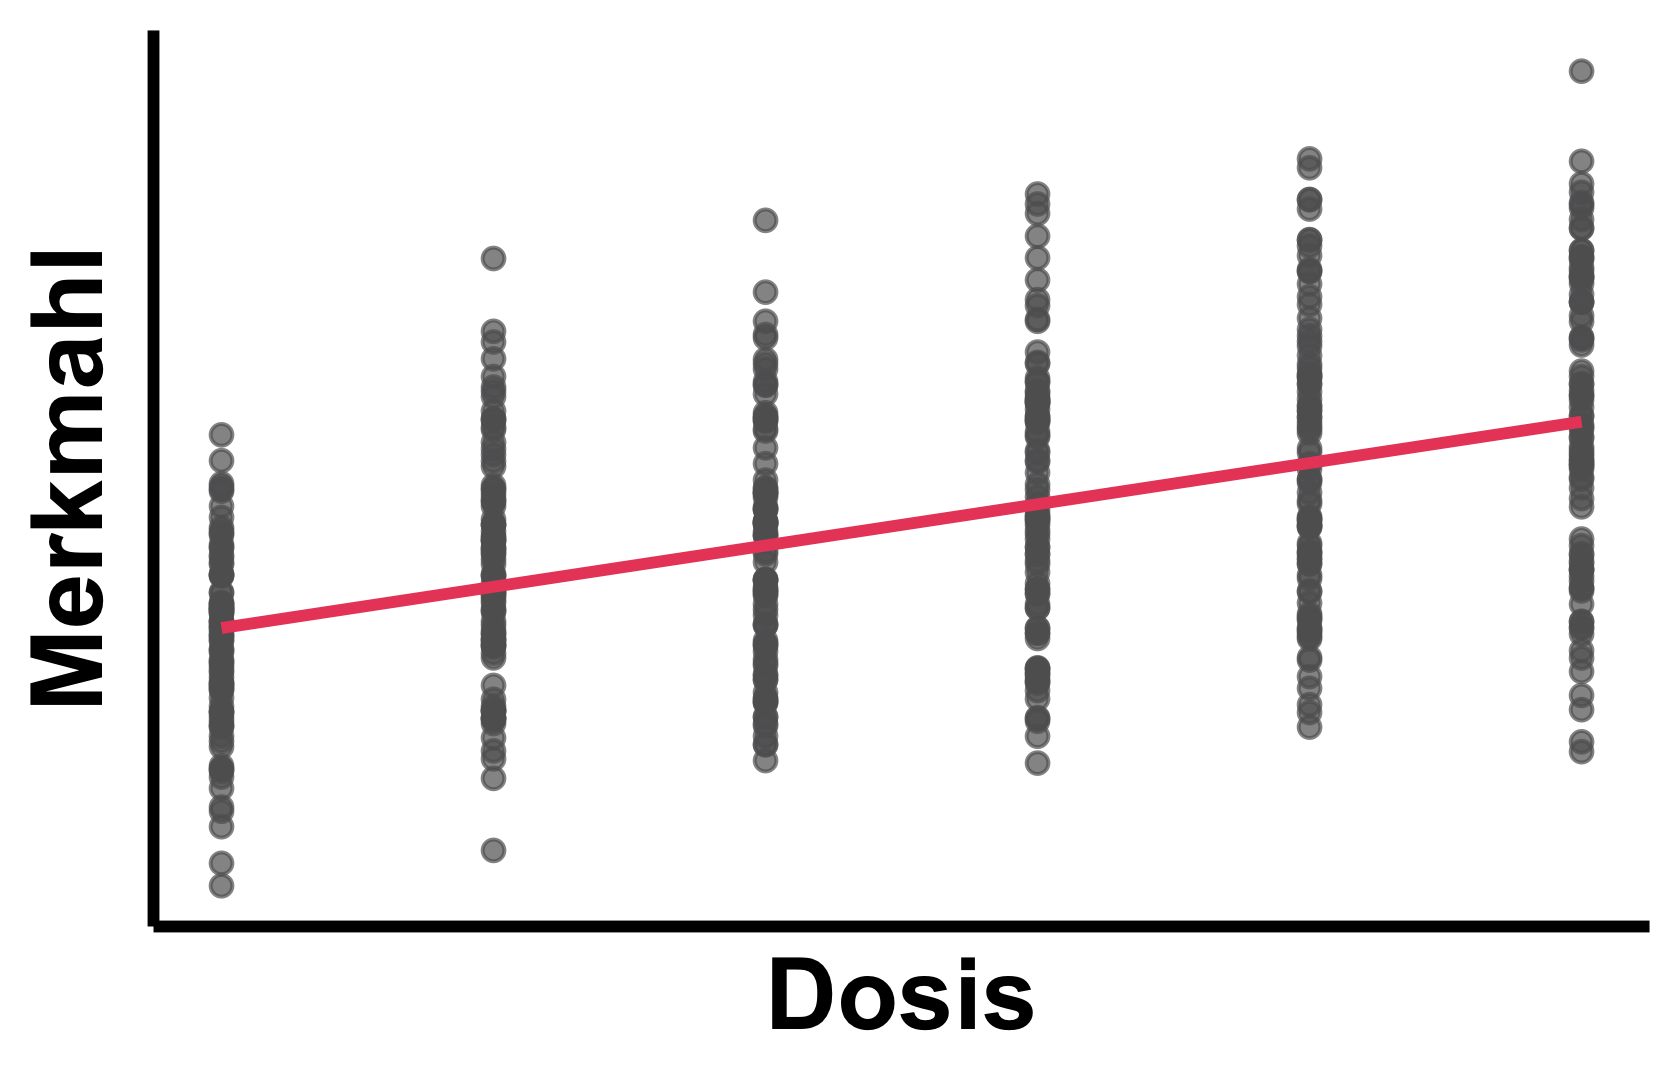
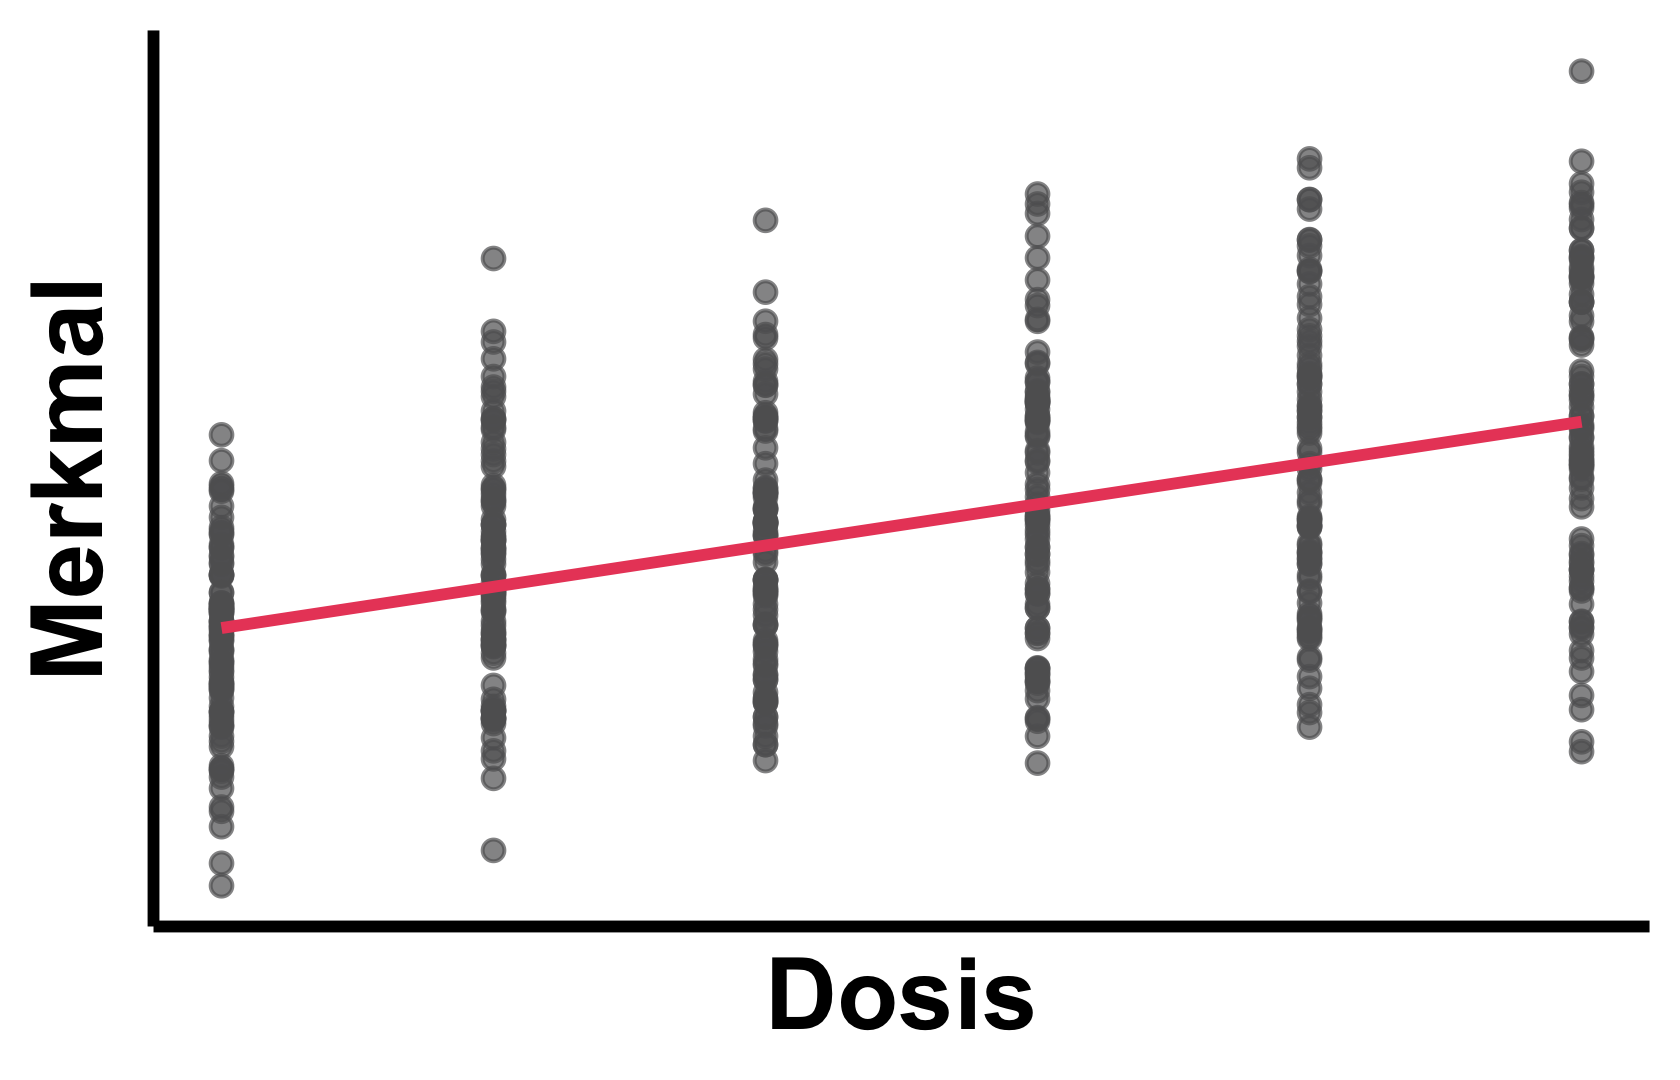
...

Changed region(s): [[0.0, 0.2139, 0.0619, 0.6722]]

diff --git a/_sessions/GemischteModelle/GemischteModelle.html b/_sessions/GemischteModelle/GemischteModelle.html
@@ -72,7 +72,7 @@ layout: true
 # [IID](https://de.wikipedia.org/wiki/Unabh%C3%A4ngig_und_identisch_verteilte_Zufallsvariablen) Annahme
 
 .pull-left45[
-Bisherige Regressionsmodelle machen die Annahme, dass die Datenpunkte unabhängig und gleichverteilt sind (independent and identically distributed, &lt;high&gt;iid&lt;/high&gt;).
+Bisherige Regressionsmodelle machen die Annahme, dass die Residuen unabhängig und gleichverteilt sind (independent and identically distributed, &lt;high&gt;iid&lt;/high&gt;).
 
 &lt;ul&gt;
   &lt;li class="m1"&gt;&lt;span&gt;&lt;high&gt;Unabhängig&lt;/high&gt;: Das Auftreten eines Wertes hat keinen Einfluss auf das Auftreten anderer Werte.&lt;/span&gt;&lt;/li&gt;
@@ -147,7 +147,7 @@ So würden wir eine Regression über alle Zentren rechnen (aber ist dies eine gu
 
 
 ```r
-mod &lt;- lm(formula = Merkmahl ~ Dosis,
+mod &lt;- lm(formula = Merkmal ~ Dosis,
           data = DATEN_ZENTREN)
 ```
 
@@ -178,13 +178,13 @@ So würden wir eine Regression pro Zentrum rechnen (aber ist dies eine gute Idee
 
 
 ```r
-mod_s1 &lt;- lm(formula = Merkmahl ~ Dosis,
+mod_s1 &lt;- lm(formula = Merkmal ~ Dosis,
              data = DATEN_ZENTRUM1)
 
-mod_s2 &lt;- lm(formula = Merkmahl ~ Dosis,
+mod_s2 &lt;- lm(formula = Merkmal ~ Dosis,
              data = DATEN_ZENTRUM2)
 
-mod_s3 &lt;- lm(formula = Merkmahl ~ Dosis,
+mod_s3 &lt;- lm(formula = Merkmal ~ Dosis,
              data = DATEN_ZENTRUM3)
 ```
 
@@ -259,14 +259,14 @@ LMM &lt;- lmer(formula = y ~ FE1 + FE2 +
 .pull-left5[
 
 &lt;br&gt;
-Feste Effekte repräsentieren dieselben Gruppeneffekte wie bei den bisherigen Regressionsmodellen; zum Beispiel den Effekt eines Medikamentes auf ein relevantes Merkmahl.
+Feste Effekte repräsentieren dieselben Gruppeneffekte wie bei den bisherigen Regressionsmodellen; zum Beispiel den Effekt eines Medikamentes auf ein relevantes Merkmal.
 
 Bis jetzt haben wir ausschliesslich Modelle mit festen Effekten betrachtet.
 
 
 
 ```r
-mod &lt;- lm(formula = Merkmahl ~ Dosis,
+mod &lt;- lm(formula = Merkmal ~ Dosis,
           data = DATEN_ZENTREN)
 ```
 
@@ -291,7 +291,7 @@ mod &lt;- lm(formula = Merkmahl ~ Dosis,
 
 Wir möchten den Einfluss von Alkoholkonsum auf Filmrezensionen auf [Rotten Tomatoes](https://www.rottentomatoes.com/) untersuchen.
 
-Wir rekrutieren zwei Versuchspersonen, die je zwei Filme beurteilen, und zwar einmal im nüchternen Zustand und einmal nachdem sie 4 kleine Biere getrunken haben (mehr als 4 Biere würde als Binge Drinking zählen, wofür wir kein OK von der Ethikkommission erhalten würden).
+Wir rekrutieren zwei Versuchspersonen, die je zwei Filme beurteilen, und zwar einmal im nüchternen Zustand und einmal nachdem sie 4 kleine Biere getrunken haben.
 
 &lt;ul&gt;
   &lt;li class="m1"&gt;&lt;span&gt;Wiederholte Messung (&lt;i&gt;within subjects design&lt;/i&gt;).&lt;/span&gt;&lt;/li&gt;

diff --git a/_sessions/Welcome/Welcome.html b/_sessions/Welcome/Welcome.html
@@ -182,7 +182,7 @@ Klicke auf &lt;high&gt;"....running..."&lt;/high&gt; auf unserer Website!
 
   &lt;iframe src="https://therbootcamp.github.io/SmR_2020Mai/_sessions/LinearModelsI/LinearModelsI_practical.html" height="480px" width = "500px"&gt;&lt;/iframe&gt;
 
-  Beispiel:&lt;a href="https://therbootcamp.github.io/SmR_2020Mai/_sessions/LinearModelsI/LinearModelsI_practical.html"&gt; Fitting &lt;/a&gt;
+  Beispiel:&lt;a href="https://therbootcamp.github.io/SmR_2020Mai/_sessions/LinearModelsI/LinearModelsI_practical.html"&gt; Lineare Modelle I &lt;/a&gt;
 
 ]
 
